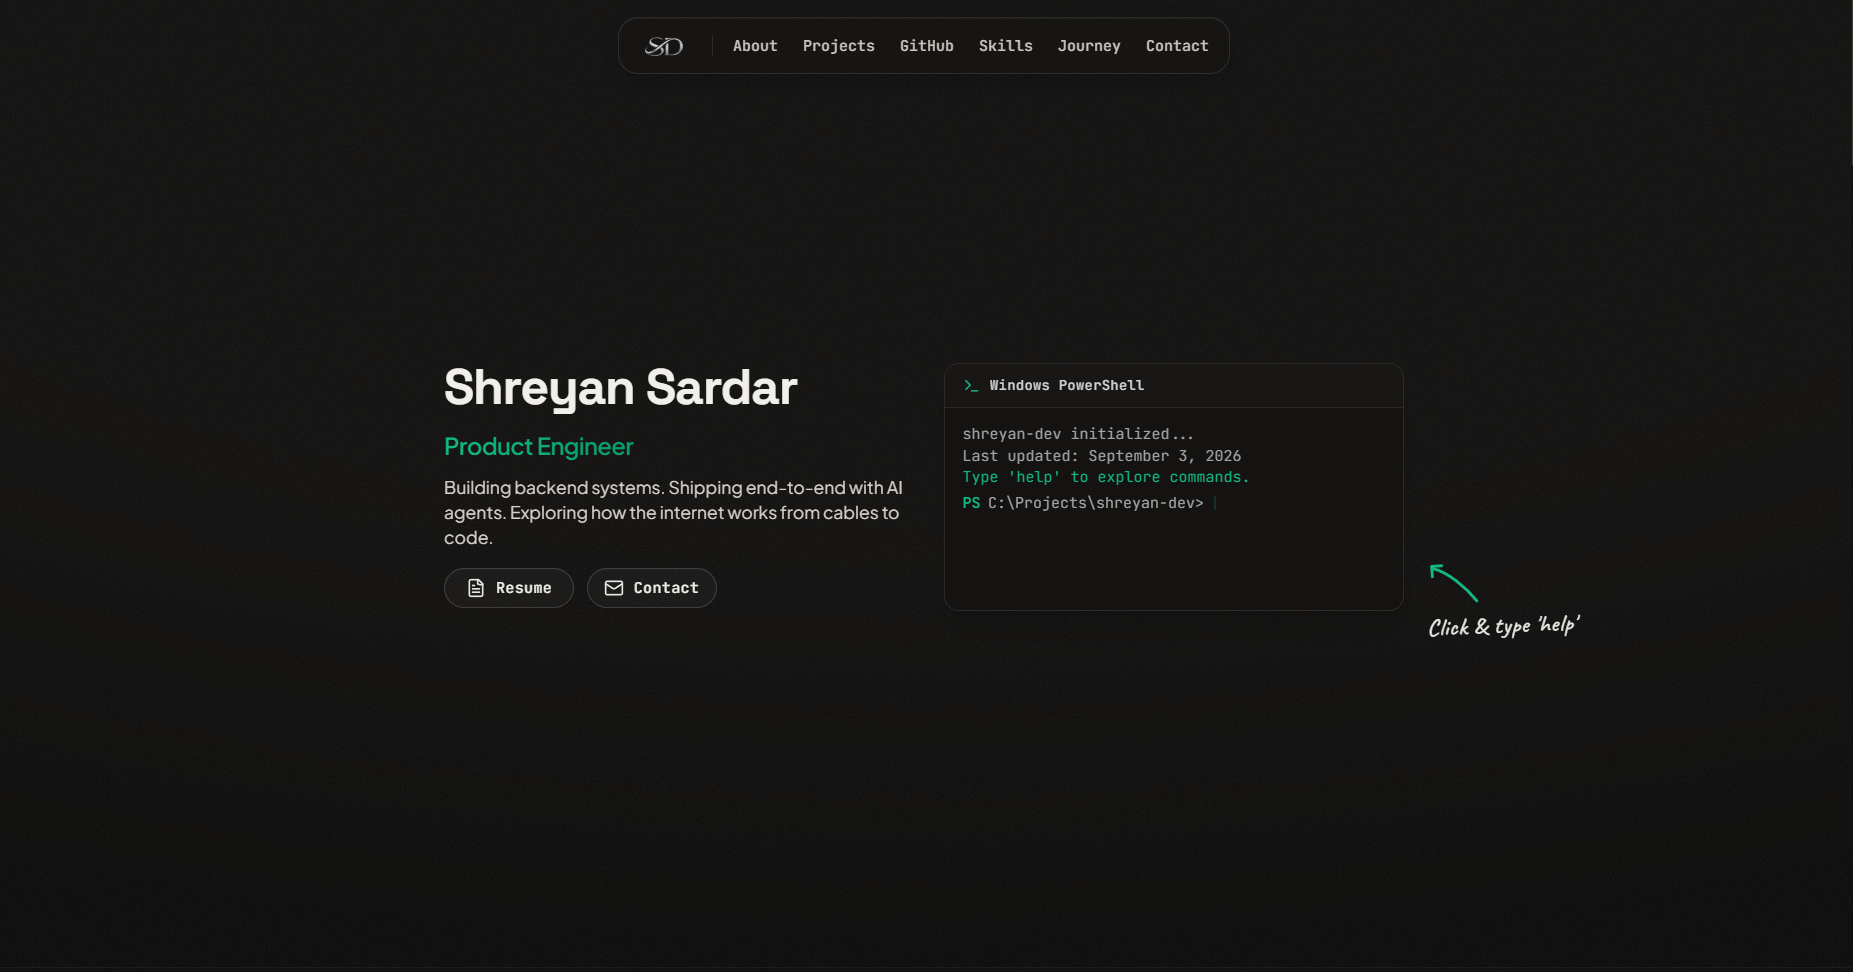
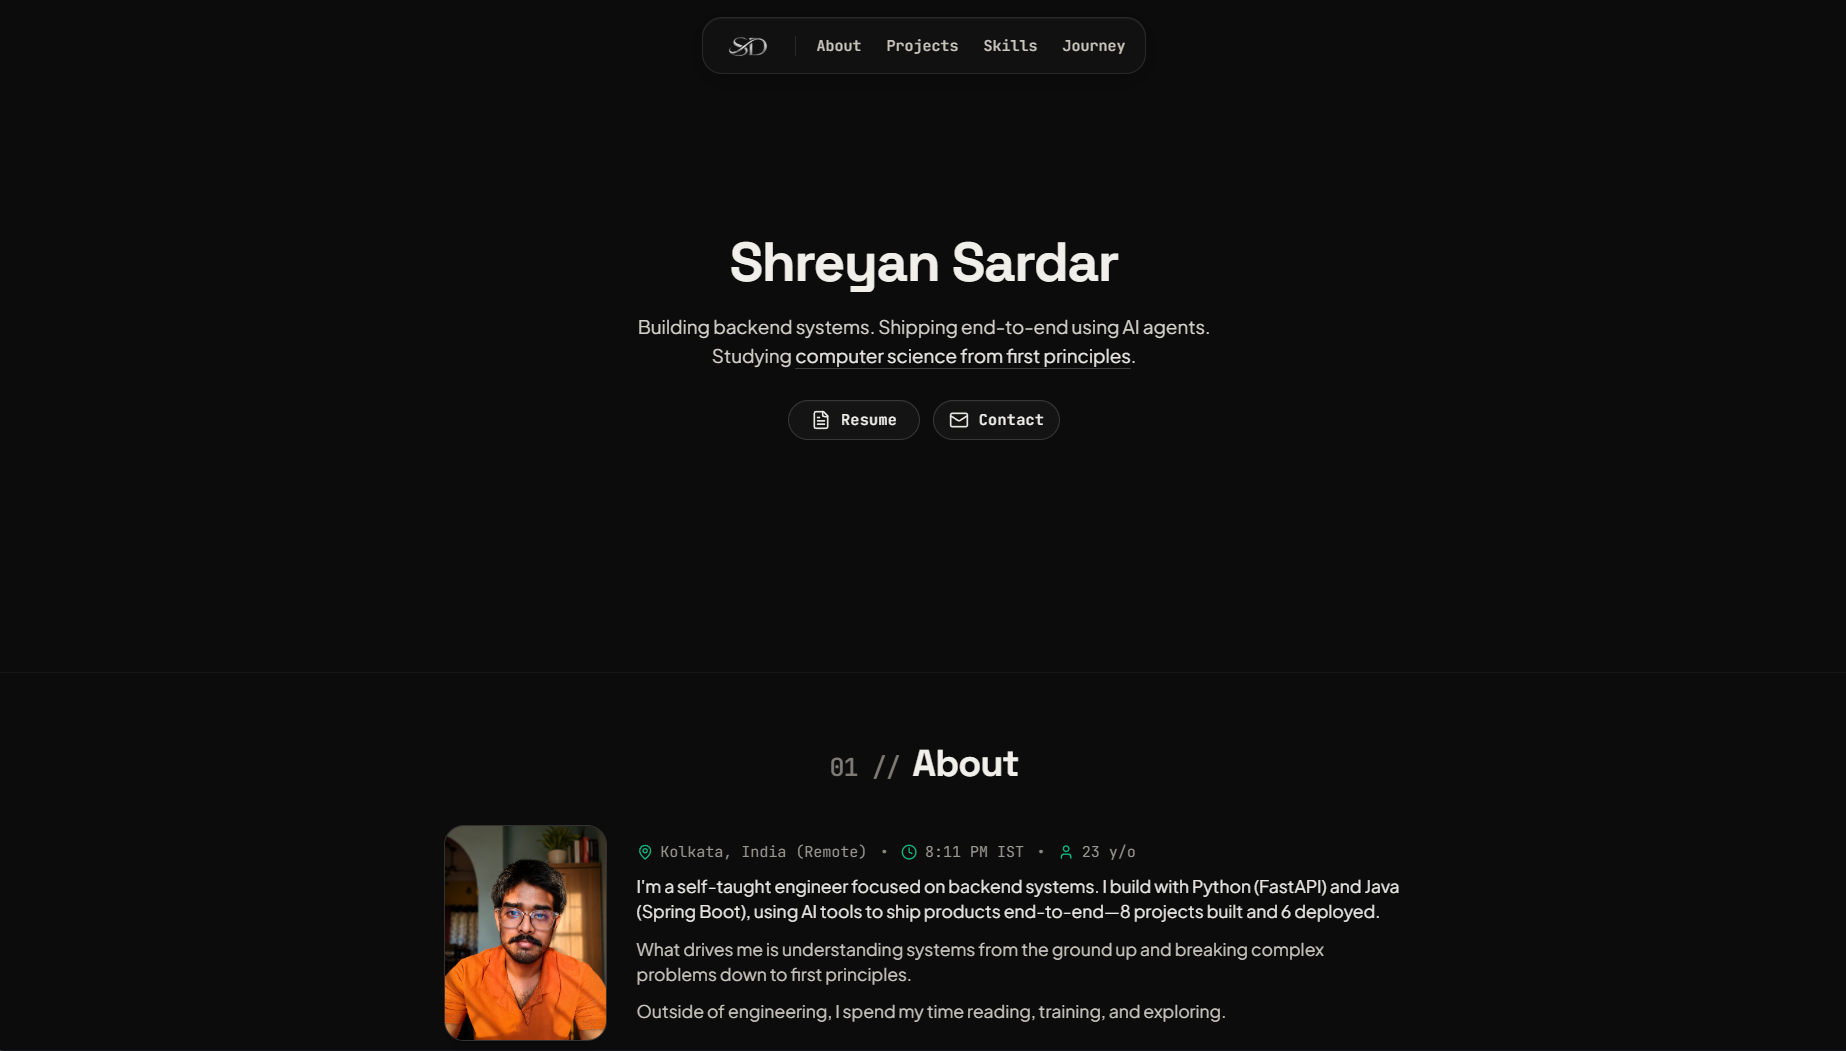
feat: update resume, homepage preview image, footer links order, and resume modal zoom

diff --git a/src/components/Footer.tsx b/src/components/Footer.tsx
@@ -38,14 +38,14 @@ const FOOTER_LINKS = [
     icon: GitHubIcon,
   },
   {
-    name: "LeetCode",
-    href: "https://leetcode.com/u/Shreyan_555/",
-    icon: LeetCodeIcon,
-  },
-  {
     name: "LinkedIn",
     href: "https://linkedin.com/in/shreyansardar",
     icon: LinkedInIcon,
+  },
+  {
+    name: "Email",
+    href: "mailto:shreyansardar427@gmail.com",
+    icon: MailIcon,
   },
   {
     name: "Twitter",
@@ -53,9 +53,9 @@ const FOOTER_LINKS = [
     icon: XIcon,
   },
   {
-    name: "Email",
-    href: "mailto:shreyansardar427@gmail.com",
-    icon: MailIcon,
+    name: "LeetCode",
+    href: "https://leetcode.com/u/Shreyan_555/",
+    icon: LeetCodeIcon,
   },
 ];
 

diff --git a/src/components/Hero.tsx b/src/components/Hero.tsx
@@ -99,7 +99,7 @@ const Hero: FC = () => {
         pdfPath="/Shreyan_Sardar_Resume.pdf"
         downloadName="Shreyan_Sardar_Resume.pdf"
         downloadLabel="Download PDF"
-        newTabZoom={80}
+        newTabZoom={73}
       />
     </div>
   );
